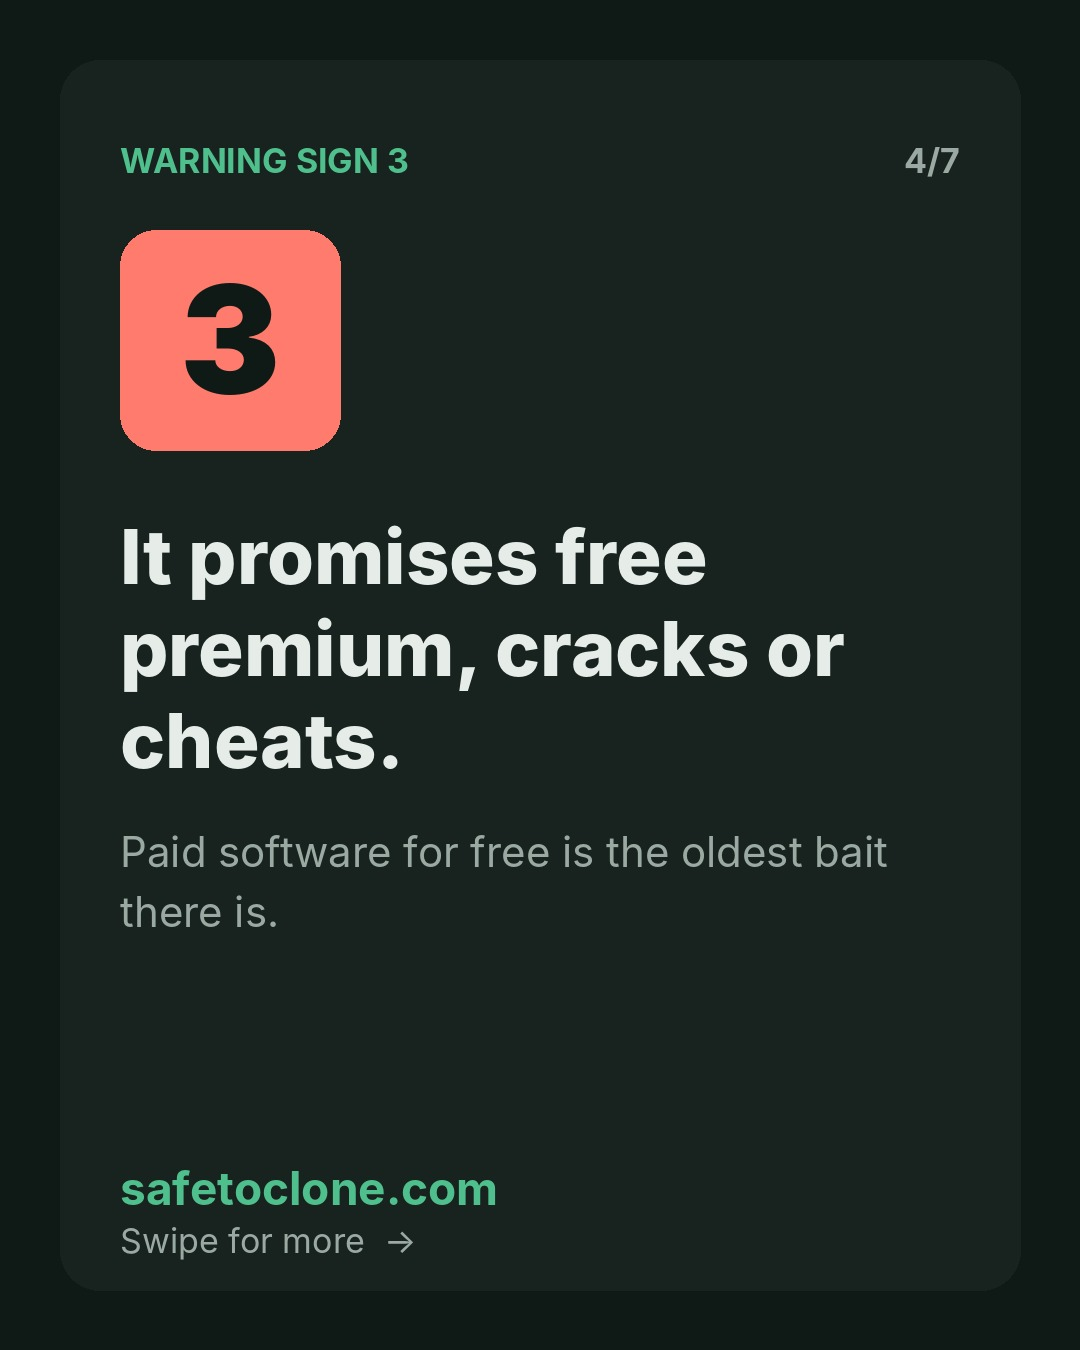
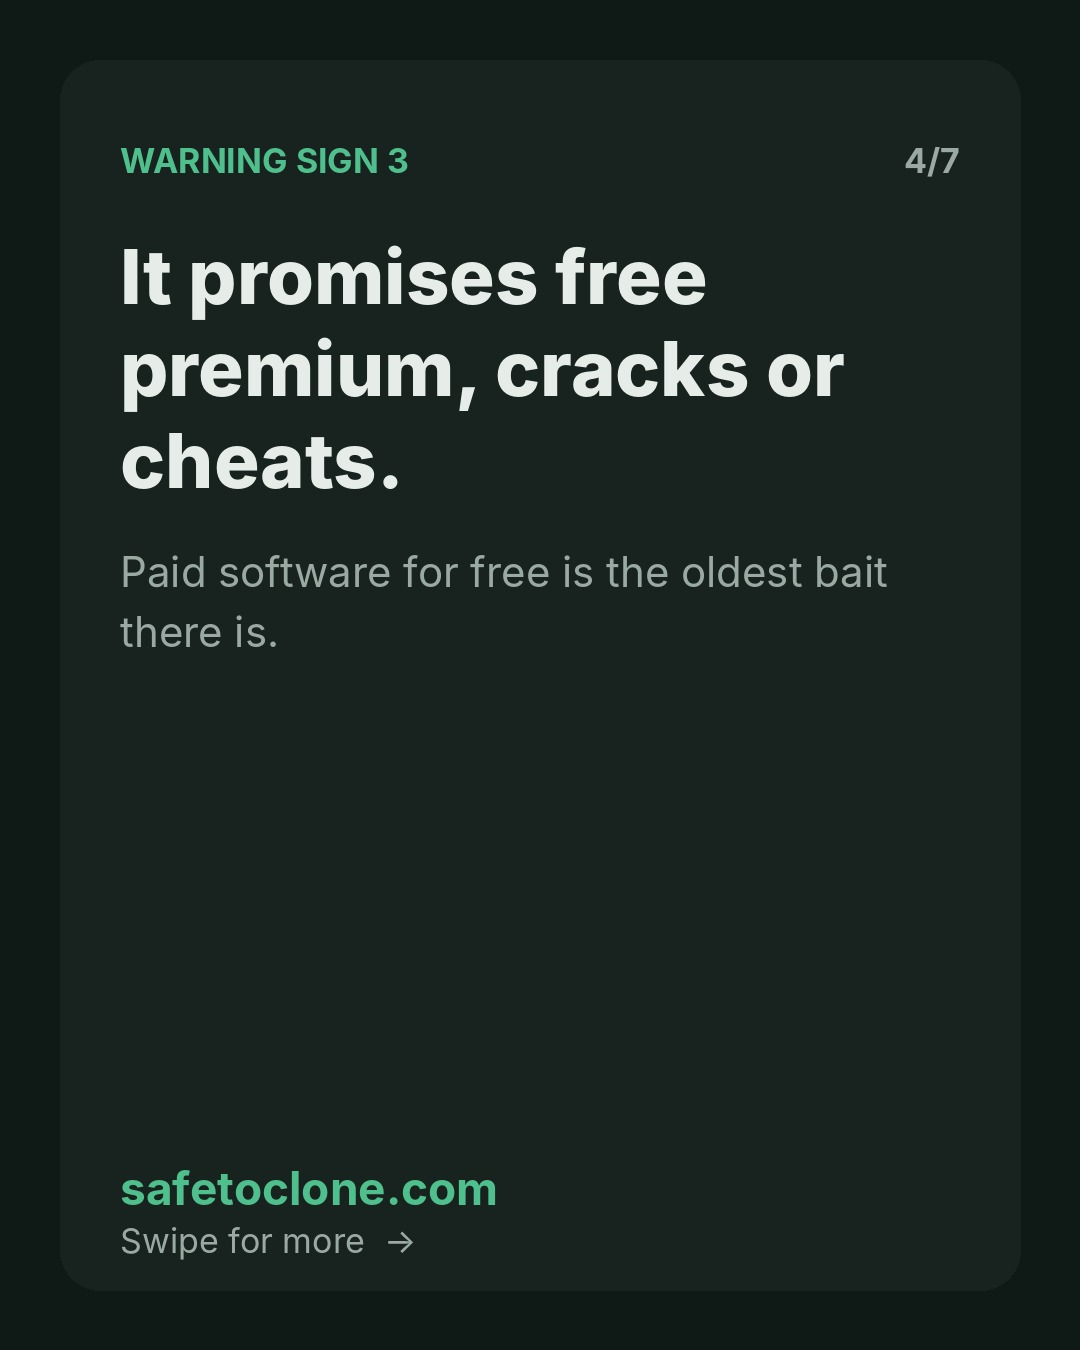
Instagram images: no grade square unless it shows a real letter grade
The coloured square is where our site shows a letter grade, so numbers, ! and ?
in it looked like grades. Carousel slides and the Oct 25 card drop it; the Oct 27
card shows A (all 20 tools got an A). The approved Oct 23 image is unchanged.

Claude-Session: https://claude.ai/code/session_01XdAi7u6ReH56BhejZ4f4An

diff --git a/scripts/make-instagram-images.py b/scripts/make-instagram-images.py
@@ -62,45 +62,44 @@ CARDS = [
     ("2026-10-23-intro", "New: SafeToClone", "Check a GitHub project before you download it.",
      "Paste any link. Get a grade from A to F in seconds. No coding needed.", "A"),
     ("2026-10-25-hijack", "AI safety", "Your AI reads files you never open.",
-     "Files like CLAUDE.md and .cursorrules can hide instructions that hijack your assistant. We flag them.", "!", BAD),
+     "Files like CLAUDE.md and .cursorrules can hide instructions that hijack your assistant. We flag them."),
     ("2026-10-27-scripts", "We checked 20 AI tools", "All 20 got an A. 6 run a script straight from the internet.",
-     "Normal for trusted projects. Also exactly how scams work. Here's the rule to follow.", "6", ACCENT),
+     "Normal for trusted projects. Also exactly how scams work. Here's the rule to follow.", "A", ACCENT),
 ]
 
-WARN, OK_ = "#f2b24c", ACCENT
 # Each carousel: post id, then its slides as (kicker, headline, body, badge, badge colour).
 CAROUSELS = [
     ("2026-10-29-warning-signs", [
-        ("Save this", "5 warning signs a GitHub project is malware.", "Check these before you download any free tool.", "5", BAD),
-        ("Warning sign 1", "It asks you to turn off your antivirus.", "Real software never needs this. It is the number one trick malware uses to get past your protection.", "1", BAD),
-        ("Warning sign 2", "The download is a password-protected zip.", "The password stops your antivirus from looking inside. That is the whole point.", "2", BAD),
-        ("Warning sign 3", "It promises free premium, cracks or cheats.", "Paid software for free is the oldest bait there is.", "3", BAD),
-        ("Warning sign 4", "Thousands of stars in a few days.", "Stars can be bought. Real projects usually grow slowly.", "4", BAD),
-        ("Warning sign 5", "The owner's account is brand new.", "Scammers make fresh accounts because their old ones get banned.", "5", BAD),
-        ("Not sure?", "Paste the link. We check all 5 for you.", "Free grade from A to F in seconds. Save this for the next tool someone sends you.", "A", ACCENT),
+        ("Save this", "5 warning signs a GitHub project is malware.", "Check these before you download any free tool."),
+        ("Warning sign 1", "It asks you to turn off your antivirus.", "Real software never needs this. It is the number one trick malware uses to get past your protection."),
+        ("Warning sign 2", "The download is a password-protected zip.", "The password stops your antivirus from looking inside. That is the whole point."),
+        ("Warning sign 3", "It promises free premium, cracks or cheats.", "Paid software for free is the oldest bait there is."),
+        ("Warning sign 4", "Thousands of stars in a few days.", "Stars can be bought. Real projects usually grow slowly."),
+        ("Warning sign 5", "The owner's account is brand new.", "Scammers make fresh accounts because their old ones get banned."),
+        ("Not sure?", "Paste the link. We check all 5 for you.", "Free grade from A to F in seconds. Save this for the next tool someone sends you."),
     ]),
     ("2026-10-31-unproven-vs-dangerous", [
-        ("Low grade?", "Unproven vs Dangerous. What is the difference?", "A low grade on SafeToClone comes with one of two labels. They mean very different things.", "?", WARN),
-        ("Unproven", "Nothing looks wrong. It is just too new to trust yet.", "Too new or too little-known for anyone to have checked it properly.", "?", WARN),
-        ("Unproven: what to do", "Wait a few weeks, or ask someone who codes.", "For example: a tool a new developer posted last week. It could be great. Nobody knows yet.", "?", WARN),
-        ("Dangerous", "We found tricks that malware uses.", "For example: it asks you to turn off your antivirus, or ships a password-protected zip.", "!", BAD),
-        ("Dangerous: what to do", "Don't download it.", "Already did? Uninstall it, run a full antivirus scan and change your passwords, starting with email and banking.", "!", BAD),
-        ("Check any project", "Know which one you are dealing with.", "Paste any GitHub link. Free, no coding needed.", "A", ACCENT),
+        ("Low grade?", "Unproven vs Dangerous. What is the difference?", "A low grade on SafeToClone comes with one of two labels. They mean very different things."),
+        ("Unproven", "Nothing looks wrong. It is just too new to trust yet.", "Too new or too little-known for anyone to have checked it properly."),
+        ("Unproven: what to do", "Wait a few weeks, or ask someone who codes.", "For example: a tool a new developer posted last week. It could be great. Nobody knows yet."),
+        ("Dangerous", "We found tricks that malware uses.", "For example: it asks you to turn off your antivirus, or ships a password-protected zip."),
+        ("Dangerous: what to do", "Don't download it.", "Already did? Uninstall it, run a full antivirus scan and change your passwords, starting with email and banking."),
+        ("Check any project", "Know which one you are dealing with.", "Paste any GitHub link. Free, no coding needed."),
     ]),
     ("2026-11-02-stars", [
-        ("Popular is not the same as safe", "Stars can be bought.", "A project with thousands of stars can still get a low grade from us. Here is why.", "\u2605", WARN),
-        ("What stars are", "Stars are like bookmarks.", "Lots of real stars usually means lots of real people have looked at the project.", "\u2605", ACCENT),
-        ("The catch", "Fake stars are cheap.", "Scammers buy them to make malware look popular and trusted.", "!", BAD),
-        ("What we look at", "How fast the stars came, and from whom.", "Thousands of stars in a few days from a brand-new account is a red flag. We grade it down however popular it looks.", "?", WARN),
-        ("Send this", "To the friend who picks tools by star count.", "Check the whole project, not just the number, free at safetoclone.com.", "A", ACCENT),
+        ("Popular is not the same as safe", "Stars can be bought.", "A project with thousands of stars can still get a low grade from us. Here is why."),
+        ("What stars are", "Stars are like bookmarks.", "Lots of real stars usually means lots of real people have looked at the project."),
+        ("The catch", "Fake stars are cheap.", "Scammers buy them to make malware look popular and trusted."),
+        ("What we look at", "How fast the stars came, and from whom.", "Thousands of stars in a few days from a brand-new account is a red flag. We grade it down however popular it looks."),
+        ("Send this", "To the friend who picks tools by star count.", "Check the whole project, not just the number, free at safetoclone.com."),
     ]),
     ("2026-11-04-installed-dangerous", [
-        ("Save this", "Installed something marked Dangerous? Do these 3 things.", "Don't panic. Do them in this order.", "3", BAD),
-        ("Step 1", "Uninstall it.", "Remove the program and delete the folder you downloaded.", "1", BAD),
-        ("Step 2", "Run a full antivirus scan.", "A full scan, not a quick one. It takes longer and looks everywhere.", "2", BAD),
-        ("Step 3", "Change your passwords.", "Start with your email and your banking, then the rest you use on that computer.", "3", BAD),
-        ("Work computer?", "Tell your IT team right away.", "Before anything else. They would much rather hear it from you first.", "!", BAD),
-        ("Next time", "Check before you clone.", "Paste any GitHub link before you install it. Free grade from A to F.", "A", ACCENT),
+        ("Save this", "Installed something marked Dangerous? Do these 3 things.", "Don't panic. Do them in this order."),
+        ("Step 1", "Uninstall it.", "Remove the program and delete the folder you downloaded."),
+        ("Step 2", "Run a full antivirus scan.", "A full scan, not a quick one. It takes longer and looks everywhere."),
+        ("Step 3", "Change your passwords.", "Start with your email and your banking, then the rest you use on that computer."),
+        ("Work computer?", "Tell your IT team right away.", "Before anything else. They would much rather hear it from you first."),
+        ("Next time", "Check before you clone.", "Paste any GitHub link before you install it. Free grade from A to F."),
     ]),
 ]
 
@@ -109,6 +108,6 @@ if __name__ == "__main__":
     for c in CARDS:
         card(*c)
     for post_id, slides in CAROUSELS:
-        for i, (kicker, headline, body, badge, color) in enumerate(slides, 1):
-            card(f"{post_id}/{i}", kicker, headline, body, badge, color, counter=f"{i}/{len(slides)}")
+        for i, (kicker, headline, body) in enumerate(slides, 1):
+            card(f"{post_id}/{i}", kicker, headline, body, counter=f"{i}/{len(slides)}")
     print("Made", len(CARDS), "images and", len(CAROUSELS), "carousels in instagram/")
